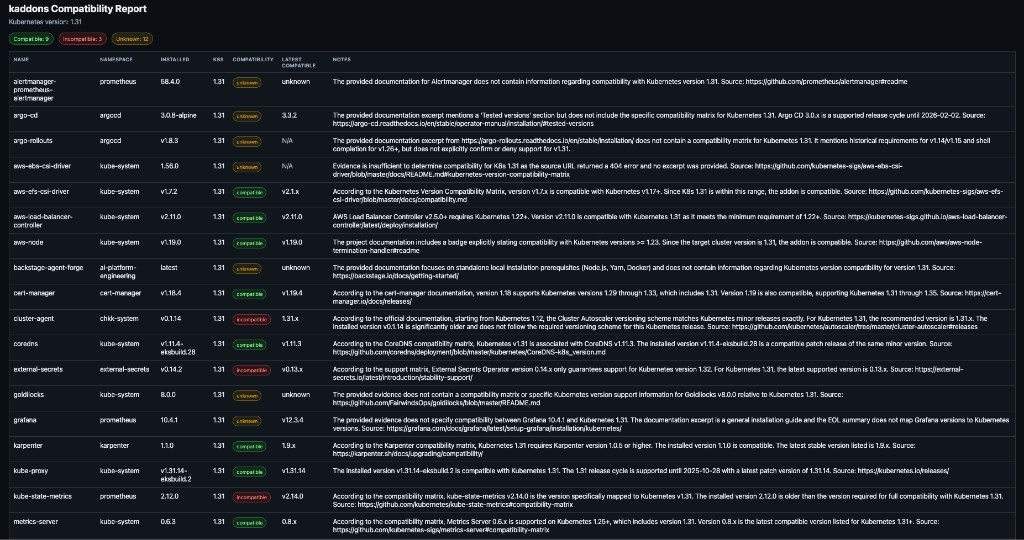
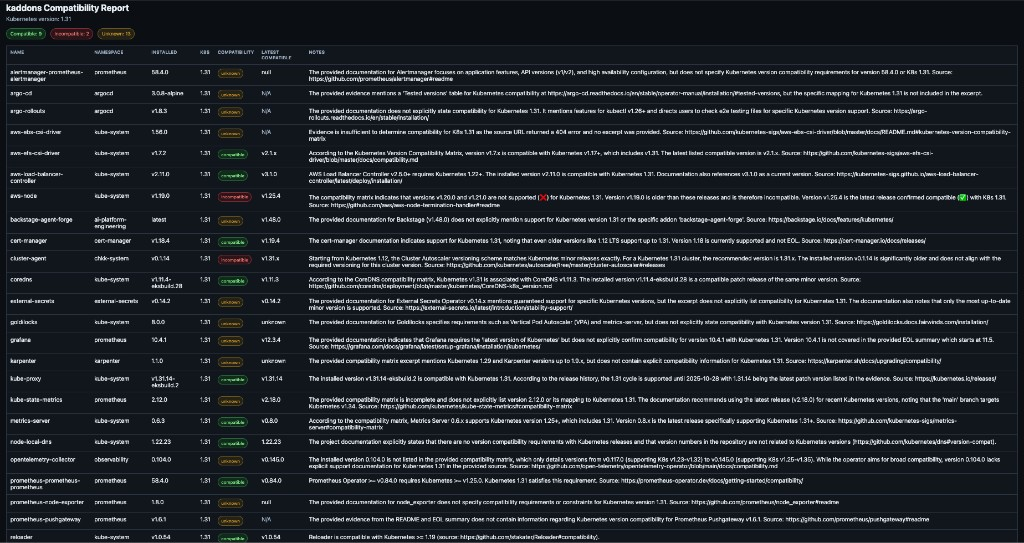
chore: harden retry timer handling and refresh report screenshot
Replace time.After in retry backoff waits with an explicit timer stop/drain path for cancellation-heavy flows, and update the documented HTML report screenshot to the latest output example.

Made-with: Cursor

Changed region(s): [[0.0, 0.0, 1.0, 1.0]]

diff --git a/internal/resilience/retry.go b/internal/resilience/retry.go
@@ -66,10 +66,17 @@ func RetryWithResult[T any](
 		if delay <= 0 {
 			continue
 		}
+		timer := time.NewTimer(delay)
 		select {
 		case <-ctx.Done():
+			if !timer.Stop() {
+				select {
+				case <-timer.C:
+				default:
+				}
+			}
 			return zero, ctx.Err()
-		case <-time.After(delay):
+		case <-timer.C:
 		}
 	}
 	return zero, lastErr
